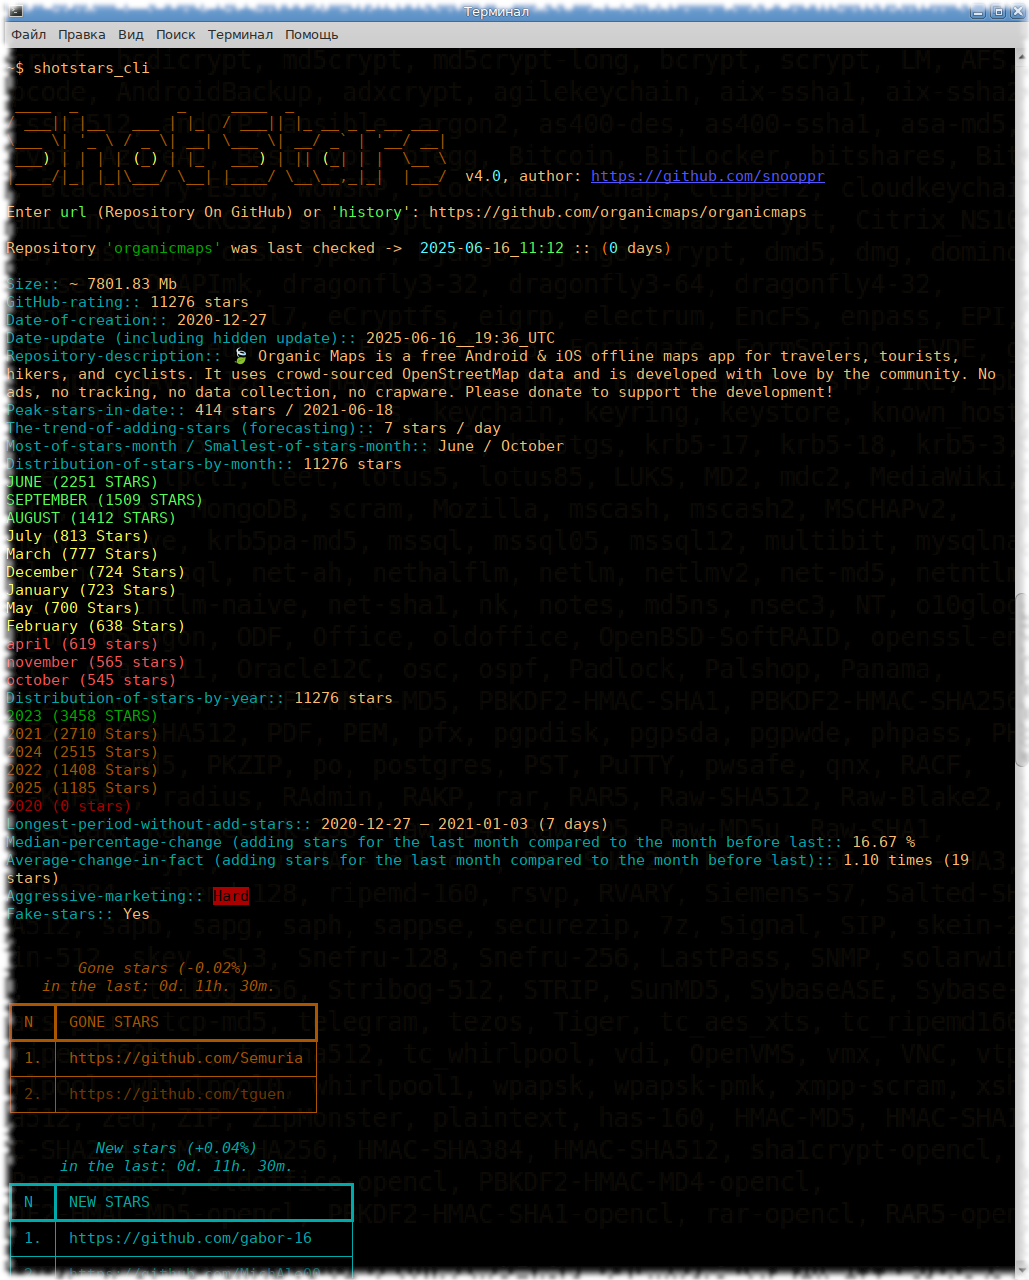
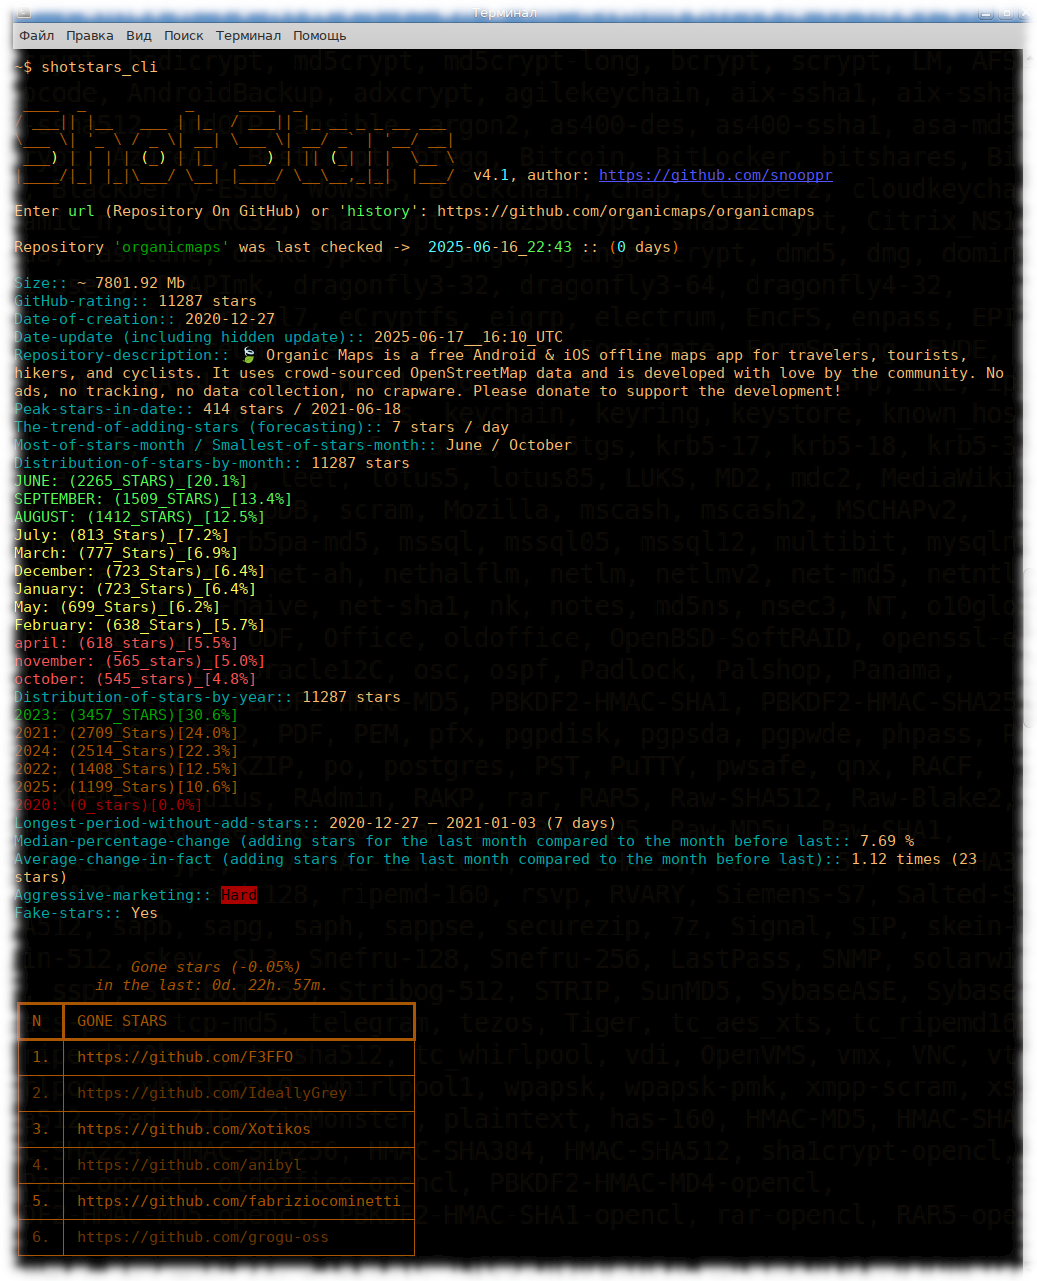
new version 4.1
— Percent calculation has been added to the "Distribution-of-stars-by-month / by-year" metrics.

— Added two histogram to the HTML report: distribution of stars by month and by year.

— Added histogram: star hour, distribution of stars by hour.

— Added line to graphs/histogram: mean.

Changed region(s): [[0.0, 0.0, 1.0, 1.0]]

diff --git a/shotstars/shotstars.py b/shotstars/shotstars.py
@@ -39,7 +39,7 @@ console.print(r"""[yellow]
 / ___|| |__   ___ | |_  / ___|| |_ __ _ _ __ ___
 \___ \| '_ \ / _ \| __| \___ \| __/ _` | '__/ __|
  ___) | | | | (_) | |_   ___) | || (_| | |  \__ \
-|____/|_| |_|\___/ \__| |____/ \__\__,_|_|  |___/[/yellow]  v4.0, author: https://github.com/snooppr
+|____/|_| |_|\___/ \__| |____/ \__\__,_|_|  |___/[/yellow]  v4.1, author: https://github.com/snooppr
 """)
 
 
@@ -201,7 +201,7 @@ def calc_stars(aggregated_data):
     return dates_for_plot, counts_for_plot
 
 
-def generate_plots(aggregated_data, source_filename):
+def generate_plots(aggregated_data, source_filename, months_stars, years_stars, hours_stars, mean_year, mean_days, dif_date):
     """Генерация CLI и HTML графиков"""
     if not aggregated_data:
         return None
@@ -267,25 +267,29 @@ def generate_plots(aggregated_data, source_filename):
         fig.add_trace(plt_html.Scatter(x=dates_for_plot, y=counts_for_plot, mode='markers',
                       marker=dict(color=marker_color, size=8, symbol='star'),
                       error_y=dict(type='data', arrayminus=counts_for_plot, array=[0] * len(counts_for_plot),
-                                   visible=True, thickness=1, width=0, color=line_color),
+                                   visible=True, thickness=1, width=0, color=line_color), name='all stars',
                       customdata=counts_for_plot, hovertemplate=("Date: %{x}<br>Stars: %{customdata}<extra></extra>")))
 
-        fig.update_layout(title=f"Dynamics userstars, repository '<b>{repo}</b>' " + \
+        fig.add_trace(plt_html.Scatter(x=dates_for_plot, y=[mean_days] * len(dates_for_plot), mode='lines',
+                                       name=f'mean = {round(mean_days, 1)} stars / days', opacity=0.70,
+                                       line=dict(color='red', width=2)))
+
+        fig.update_layout(title=f"Graph N1. Dynamics userstars, repository '<b>{repo}</b>' " + \
                                 f"␥ Created with <a href='https://github.com/snooppr/shotstars'>Shotstars software</a>.",
                           xaxis_title="Date", yaxis_title="Quantity stars",
                           xaxis=dict(tickformat='%Y-%m-%d', showgrid=True, gridwidth=1, gridcolor='lightgray'),
                           yaxis=dict(showgrid=True, gridwidth=1, gridcolor='lightgray'),
-                          plot_bgcolor=plot_bgcolor, paper_bgcolor=paper_bgcolor, legend_title_text='Data source')
+                          plot_bgcolor=plot_bgcolor, paper_bgcolor=paper_bgcolor)
 
         if not isinstance(aggregated_data, list):
             fig.write_html(f"{path}/graph_{base_filename}")
-        else: # строим 2-й в HTML-график.
+        else: # строим множество HTML-графиков.
             fig2 = plt_html.Figure()
 
             fig2.add_trace(plt_html.Scatter(x=dates_for_plot2, y=counts_for_plot2, mode='lines+markers',
                                             marker=dict(size=3, symbol='star'), line=dict(shape='spline', width=5)))
 
-            fig2.update_layout(title=f"Cumulative growth of stars, repository '<b>{repo}</b>' " + \
+            fig2.update_layout(title=f"Graph N2. Cumulative growth of stars, repository '<b>{repo}</b>' " + \
                                      f"␥ Created with <a href='https://github.com/snooppr/shotstars'>Shotstars software</a>.",
                                xaxis_title='Date', yaxis_title='Quantity stars',
                                xaxis=dict(tickformat='%Y-%m-%d'), autosize=True,
@@ -293,8 +297,47 @@ def generate_plots(aggregated_data, source_filename):
                                plot_bgcolor=plot_bgcolor, paper_bgcolor=paper_bgcolor,
                                width=None, height=None)
 
+            x, y = map(list, zip(*months_stars))
+            fig3 = plt_html.Figure([plt_html.Bar(y=y, x=x, name='Month', opacity=0.90,
+                                    marker=dict(color='orange', line=dict(color='black', width=2)))])
+
+            fig3.update_layout(title=f"Histogram N1. Cumulative set of stars by <b>month</b>, repository '<b>{repo}</b>' " + \
+                                     f"␥ Created with <a href='https://github.com/snooppr/shotstars'>Shotstars software</a>.",
+                               xaxis_title="Month", yaxis_title="Quantity stars",
+                               plot_bgcolor=plot_bgcolor, paper_bgcolor=paper_bgcolor)
+
+            x, y = map(list, zip(*years_stars))
+            fig4 = plt_html.Figure([plt_html.Bar(y=y, x=x, name='Year',
+                                   marker=dict(color='orange', line=dict(color='grey', width=4)))])
+
+            if dif_date > 365:
+                fig4.add_trace(plt_html.Scatter(x=x, y=[mean_year] * len(x), mode='lines',
+                               name=f'mean = {round(mean_year, 1)} stars / year',
+                               line=dict(color='red', width=3)))
+
+            fig4.update_layout(title=f"Histogram N2. Cumulative set of stars by <b>year</b>, repository '<b>{repo}</b>' " + \
+                                     f"␥ Created with <a href='https://github.com/snooppr/shotstars'>Shotstars software</a>.",
+                               xaxis_title="Year", yaxis_title="Quantity stars", xaxis=dict(dtick=1, tickmode='linear'),
+                               barmode='overlay', plot_bgcolor=plot_bgcolor, paper_bgcolor=paper_bgcolor)
+
+
+            x, y = map(list, zip(*hours_stars))
+            fig5 = plt_html.Figure([plt_html.Bar(y=x, x=y, name='Hours', orientation='h',
+                                    hovertemplate=("Hours: %{y}<br>Stars: %{x}<extra></extra>"),
+                                    marker=dict(color='blue', line=dict(color='white', width=2)))])
+
+            fig5.update_layout(title=f"Histogram N3. Star Hour (distribution of stars by <b>hour, UTS</b>), " + \
+                                     f"repository '<b>{repo}</b>' " + \
+                                     f"␥ Created with <a href='https://github.com/snooppr/shotstars'>Shotstars software</a>.",
+                               xaxis_title="Quantity stars", yaxis_title="Hours", yaxis=dict(dtick=1, tickmode='linear'),
+                               plot_bgcolor=plot_bgcolor, paper_bgcolor=paper_bgcolor)
+
+
             plot_html = fig.to_html(full_html=False, include_plotlyjs=False)
             plot_html2 = fig2.to_html(full_html=False, include_plotlyjs=False)
+            plot_html3 = fig3.to_html(full_html=False, include_plotlyjs=False)
+            plot_html4 = fig4.to_html(full_html=False, include_plotlyjs=False)
+            plot_html5 = fig5.to_html(full_html=False, include_plotlyjs=False)
 
             with open(f"{path}/graph_{base_filename}", 'w', encoding='utf-8') as f:
                 f.write(f"""
@@ -328,6 +371,18 @@ def generate_plots(aggregated_data, source_filename):
 
     <div class="plot-container">
         {plot_html2}
+    </div>
+
+    <div class="plot-container">
+        {plot_html3}
+    </div>
+
+    <div class="plot-container">
+        {plot_html4}
+    </div>
+
+    <div class="plot-container">
+        {plot_html5}
     </div>
 </body>
 </html>""")
@@ -587,21 +642,28 @@ def gener_his_html(diff_lst_dn, html_name, title, stars):
 
 
 def quartiles(cnt_sum, none_statistic=None, dif_date=None, months=None, month=False, year=False):
-    """Расчет месяцев/годов по квартилям. (x < Q1; x in Q1-Q3; x > Q3)"""
+    """Расчет звезд и процентного соотношения месяца/года, квартили (x < Q1; x in Q1-Q3; x > Q3)."""
     if (month and dif_date > 32) or (year and dif_date > 365):
         l_cnt_sum = list(sorted(cnt_sum.values()))
         Q1 = statistics.median(l_cnt_sum[:len(l_cnt_sum) // 2])
         Q3 = statistics.median(l_cnt_sum[(len(l_cnt_sum) + 1) // 2:])
         Q1_Q3_index = len([x for x in l_cnt_sum if Q1 <= x <= Q3 and x != 0])
         Q3_index = len([x for x in l_cnt_sum if x > Q3 and x != 0])
+        sum_v = sum(cnt_sum.values())
         if month:
-            Q3_print = [f"{str(months[i[0]-1]).upper()} ({i[1]} STARS)" for i in cnt_sum.most_common(Q3_index)]
-            Q1_Q3_print = [f"{months[i[0]-1]} ({i[1]} Stars)" for i in cnt_sum.most_common()[Q3_index:Q3_index+Q1_Q3_index]]
-            Q1_print = [f"{str(months[i[0]-1]).lower()} ({i[1]} stars)" for i in cnt_sum.most_common()[Q3_index+Q1_Q3_index:]]
+            Q3_print = [f"{str(months[i[0]-1]).upper()}: ({i[1]}_STARS)_[{round(i[1]*100/sum_v, 1)}%]"
+                        for i in cnt_sum.most_common(Q3_index)]
+            Q1_Q3_print = [f"{months[i[0]-1]}: ({i[1]}_Stars)_[{round(i[1]*100/sum_v, 1)}%]"
+                           for i in cnt_sum.most_common()[Q3_index:Q3_index+Q1_Q3_index]]
+            Q1_print = [f"{str(months[i[0]-1]).lower()}: ({i[1]}_stars)_[{round(i[1]*100/sum_v, 1)}%]"
+                        for i in cnt_sum.most_common()[Q3_index+Q1_Q3_index:]]
         if year:
-            Q3_print = [f"{i[0]} ({i[1]} STARS)" for i in cnt_sum.most_common(Q3_index)]
-            Q1_Q3_print = [f"{i[0]} ({i[1]} Stars)" for i in cnt_sum.most_common()[Q3_index:Q3_index+Q1_Q3_index]]
-            Q1_print = [f"{i[0]} ({i[1]} stars)" for i in cnt_sum.most_common()[Q3_index+Q1_Q3_index:]]
+            Q3_print = [f"{i[0]}: ({i[1]}_STARS)_[{round(i[1]*100/sum_v, 1)}%]"
+                        for i in cnt_sum.most_common(Q3_index)]
+            Q1_Q3_print = [f"{i[0]}: ({i[1]}_Stars)_[{round(i[1]*100/sum_v, 1)}%]"
+                           for i in cnt_sum.most_common()[Q3_index:Q3_index+Q1_Q3_index]]
+            Q1_print = [f"{i[0]}: ({i[1]}_stars)_[{round(i[1]*100/sum_v, 1)}%]"
+                        for i in cnt_sum.most_common()[Q3_index+Q1_Q3_index:]]
         return Q1_print, Q1_Q3_print, Q3_print
     else:
         return [none_statistic], [none_statistic], [none_statistic]
@@ -623,7 +685,7 @@ def parsing(diff=False):
     config.read(os.path.join(os.path.dirname(path), "config.ini"))
     token = config.get('Shotstars', 'token')
     if token != "None":
-        head = {'User-Agent': f'Shotstars v4.0', 'Authorization': f'Bearer {token}'}
+        head = {'User-Agent': f'Shotstars v4.1', 'Authorization': f'Bearer {token}'}
     elif token == "None":
         head = {'User-Agent': f'Mozilla/5.0 (X11; Linux x86_64; rv:{random.randint(119, 127)}.0) Gecko/20100101 Firefox/121.0'}
 
@@ -691,7 +753,7 @@ def parsing(diff=False):
     executor = ThreadPoolExecutor(max_workers=thread_max)
 
     spinner = 'earth' if diff else 'material'
-    lst_new, futures, datestars_user = [], {}, defaultdict(set)
+    lst_new, lst_star_hours, futures, datestars_user = [], [], {}, defaultdict(set)
     with console.status("[cyan]Working", spinner=spinner):
         for page in range(1, pages+1):
             futures[executor.submit(my_session.get, headers={**head, 'Accept': 'application/vnd.github.star+json'}, timeout=6,
@@ -704,6 +766,9 @@ def parsing(diff=False):
                     git_username = num.get("user").get("login")
                     lst_new.append(git_username)
                     datestars_user[num.get("starred_at").split("T")[0]].add(git_username)
+
+                    time_h = datetime.datetime.strptime(num.get("starred_at"), '%Y-%m-%dT%H:%M:%SZ')
+                    lst_star_hours.append(time_h.hour)
 
                 futures.pop(future, None)
         except Exception:
@@ -738,6 +803,10 @@ def parsing(diff=False):
         _Maximum_stars_in_date.setdefault(date_str, 0)
         start_date += datetime.timedelta(days=1)
 
+    hours_stars = Counter(lst_star_hours)
+    [hours_stars.setdefault(i, 0) for i in range(24)]
+    hours_stars = sorted(hours_stars.items())
+
     sort_alldate_stars = sorted(_Maximum_stars_in_date.items(), key=lambda item: datetime.datetime.strptime(item[0], '%Y-%m-%d'))
 
     if dif_date > 31:
@@ -747,8 +816,10 @@ def parsing(diff=False):
 
     trend = f"1 stars / day" if trend == 0.5 else f"{round(trend)} stars / day"
 
-    none_statistic = "The repository is still young, not enough data"
+    mean_year = statistics.mean([i[1] for i in sort_alldate_stars]) * 365 if dif_date > 365 else -1
+    mean_days = statistics.mean([i[1] for i in sort_alldate_stars])
 
+    none_statistic = "The repository is still young, not enough data"
     if dif_date > 62:
         relative_start = statistics.median([i[1] for i in sort_alldate_stars[-60:-30]])
         relative_end = statistics.median([i[1] for i in sort_alldate_stars[-30:]])
@@ -804,6 +875,10 @@ def parsing(diff=False):
     high_stars_month = months[cnt_month_sum.most_common()[0][0] - 1]
     low_stars_month = months[cnt_month_sum.most_common()[-1][0] - 1]
 
+# Data для 3-го графика.
+    months_stars = [(months[m_-1], s_) for m_, s_ in sorted(month_sum.items(), key=lambda item: item[0])]
+    years_stars = [(y_, s_) for y_, s_ in sorted(years_sum.items(), key=lambda item: item[0])]
+
 ## Расчет месяцев/лет по квартилям: x < Q1; x в Q1-Q3; x > Q3.
     Q1_print_m, Q1_Q3_print_m, Q3_print_m = quartiles(cnt_month_sum, none_statistic=none_statistic,
                                                       dif_date=dif_date, months=months, month=True)
@@ -845,6 +920,7 @@ def parsing(diff=False):
     console.print(f"[cyan]The-trend-of-adding-stars (forecasting)::[/cyan] {trend}", highlight=False)
     console.print(f"[cyan]Most-of-stars-month / Smallest-of-stars-month::[/cyan] " + \
                   f"{high_stars_month} / {low_stars_month}", highlight=False)
+
     if dif_date > 32:
         console.print(f"[cyan]Distribution-of-stars-by-month" + \
                       f"{' (' + str(private_stars) + ' private stars)' if private_stars != 0 else ''}::[/cyan] " + \
@@ -852,11 +928,13 @@ def parsing(diff=False):
                       f"[bold green]{chr(10).join(Q3_print_m) if Q3_print_m else '-'*20}[/bold green]\n" + \
                       f"[bold yellow]{chr(10).join(Q1_Q3_print_m)}" + \
                       f"[/bold yellow]\n[bold red]{chr(10).join(Q1_print_m) if Q1_print_m else '-'*20}[/bold red]", highlight=False)
+
     if dif_date > 365:
         console.print(f"[cyan]Distribution-of-stars-by-year::[/cyan] {sum(cnt_month_sum.values())} stars {chr(10)}" + \
                       f"[green]{chr(10).join(Q3_print_y) if Q3_print_y else '-'*20}[/green]\n" + \
                       f"[yellow]{chr(10).join(Q1_Q3_print_y)}" + \
                       f"[/yellow]\n[red]{chr(10).join(Q1_print_y) if Q1_print_y else '-'*20}[/red]", highlight=False)
+
     console.print(f"[cyan]Longest-period-without-add-stars::[/cyan] " + \
                   f"{tuple_date_no_stars[0]} — {end_date_no_stars} ({tuple_date_no_stars[1]} days)", highlight=False)
     console.print(f"[cyan]Median-percentage-change (adding stars for the last month compared to the month before last" + \
@@ -891,7 +969,7 @@ def parsing(diff=False):
                 data = agregated_date(html_file)
                 if isinstance(html_file, list):
                     html_file = f"{path}/all_new_stars.html"
-                generate_plots(data, html_file)
+                generate_plots(data, html_file, months_stars, years_stars, hours_stars, mean_year, mean_days, dif_date)
 
             common_users_found = cross_user_detect(set(lst_new))
 
@@ -942,7 +1020,7 @@ transition: transform 0.15s}
                 file_html.write(f"\n<a class='but' href='file://{path}/all_new_stars.html' " + \
                                 "title='open all history adding stars'>open all history</a>\n" + \
                                 f"\n<a class='but' href='file://{path}/graph_all_new_stars.html' " + \
-                                "title='open all history adding stars graph'>open graphs</a>\n" + \
+                                "title='open all history adding stars graph'>open graphs (5)</a>\n" + \
                                 "</div>\n\n<div class='textcols-item'>\n<h4 style='color:#fc3f1d'>" + \
                                 f"💫 Gone stars (-{per_stars_dn}%):</h4>\n")
 
@@ -953,7 +1031,7 @@ transition: transform 0.15s}
                 file_html.write(f"\n<a class='but' href='file://{path}/all_gone_stars.html' " + \
                                 "title='open all history gone stars'>open all history</a>\n" + \
                                 f"\n<a class='but' href='file://{path}/graph_all_gone_stars.html' " + \
-                                "title='open all history gone stars graph'>open graph</a>\n" + \
+                                "title='open all history gone stars graph'>open graph (1)</a>\n" + \
                                 "</div>\n</div>\n\n<br>\n<span class='donate' " + \
                                 "style='color: white; text-shadow: 0px 0px 20px #333333'>" + \
                                 f"<small><small><strong>\n💾 Size:: ~ {size_repo} Mb<br>\n" + \
@@ -1014,7 +1092,7 @@ transition: transform 0.15s}
                 data = agregated_date(html_file)
                 if isinstance(html_file, list):
                     html_file = f"{path}/all_new_stars.html"
-                generate_plots(data, html_file)
+                generate_plots(data, html_file, months_stars, years_stars, hours_stars, mean_year, mean_days, dif_date)
 
 # Искать пересеченных пользователей.
             common_users_found = cross_user_detect(set(lst_new))

diff --git a/README.md b/README.md
@@ -23,7 +23,8 @@ Shotstars will care about and count specifically those GitHub users who have rem
 - [X] Shotstars will show ~ the size of any public repository.  
 - [X] Shotstars will also provide a short description of the repository.  
 - [X] Shotstars offers a scan history with a selection of previously registered projects for quick checking.  
-- [X] Shotstars generates CLI/HTML reports *(stats, time periods, duplicate user activity, urls, graphs and json)*.  
+- [X] Shotstars generates CLI/HTML reports *(stats, time periods, duplicate user activity, urls and json)*.  
+- [X] Shotstars creates graphs and histograms *(all star history by date, by month, by year, by hour, cumulative set of stars)*.  
 - [X] Shotstars can simulate results, documented hack: a function designed to check the utility's operation *(to make sure)* on dead/stable repositories without moving stars.  
 - [X] Shotstars finds users that overlap across Github projects, including those with hidden/private profiles.  
 - [X] Shotstars calculates to the minute and displays the time when the github rescan restriction is lifted *(if token is not used)*.  
@@ -119,7 +120,8 @@ Shotstars позволяет следить со стороны <u>за любы
 - [X] Shotstars покажет ~ размер любого публичного репозитория.  
 - [X] Shotstars также предоставит краткое описание репозитория.  
 - [X] Shotstars предлагает для быстрой проверки историю сканирований с выбором ранее учтенных проектов.
-- [X] Shotstars генерирует CLI/HTML отчеты *(статистика, периоды времени, дублирующая активность пользователей, url's, графики и json)*.  
+- [X] Shotstars генерирует CLI/HTML отчеты *(статистика, периоды времени, дублирующая активность пользователей, url's, json)*.  
+- [X] Shotstars создает графики и гистограммы *(вся история звезд по датам, по месяцам, по годам, по часам, кумулятивный набор звезд)*.  
 - [X] Shotstars умеет имитировать результаты, задокументированный хак: функция, призванная проверить работу утилиты *(удостовериться)* на мертвых/стабильных репозиториях без движения звезд. 
 - [X] Shotstars находит пересекающихся у Github-проектов пользователей, в т.ч. и тех, у кого профиль скрыт/приватный.  
 - [X] Shotstars рассчитывает с точностью до минуты и отображает время снятия github-ограничения на повторные сканирования *(если не используется token)*.  
@@ -181,6 +183,12 @@ Shotstars is awesome, it sees everything. Github says the repository hasn't had 
 *8 Shotstars generates HTML-CLI timelines of a repository's star history, both new and gone.*  
 <img src="https://raw.githubusercontent.com/snooppr/shotstars/main/images/graph.png" />  
 
+<img src="https://raw.githubusercontent.com/snooppr/shotstars/main/images/graphs.png" />  
+Comparison of two repositories based on stellar history. It is clear that the peak of popularity of the first repository has long passed, the development has gone into decline (forks). The second repository is a legend and is steadily gaining popularity.  
+
+<img src="https://raw.githubusercontent.com/snooppr/shotstars/main/images/graphs2.png" />  
+Starry hour. Repository from location RU. It is clear that its audience is European, in the morning hours, at night, much fewer stars come.  
+By the way, all 3 repositories in the screenshots are located in RU, and Shotstars is also from RU.  
 
 ## 💡 Explanation of some metrics  
 
